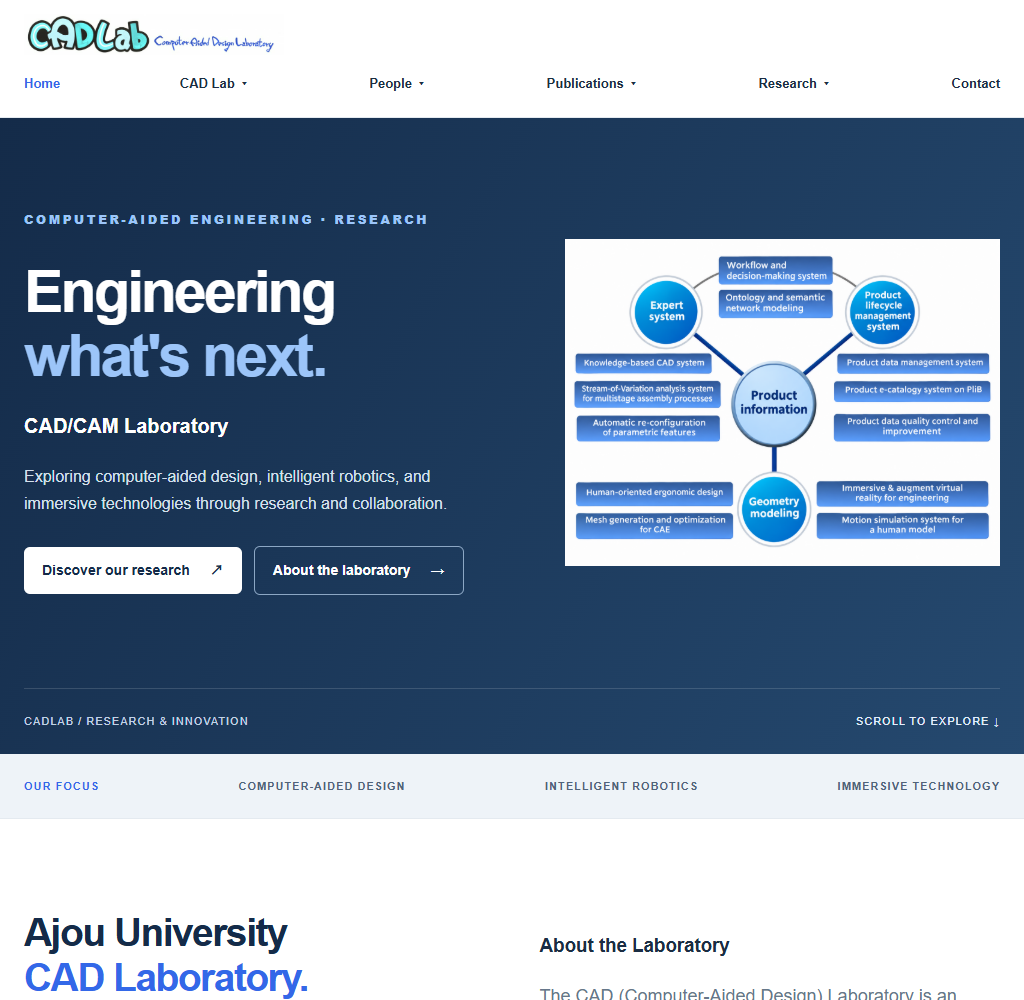
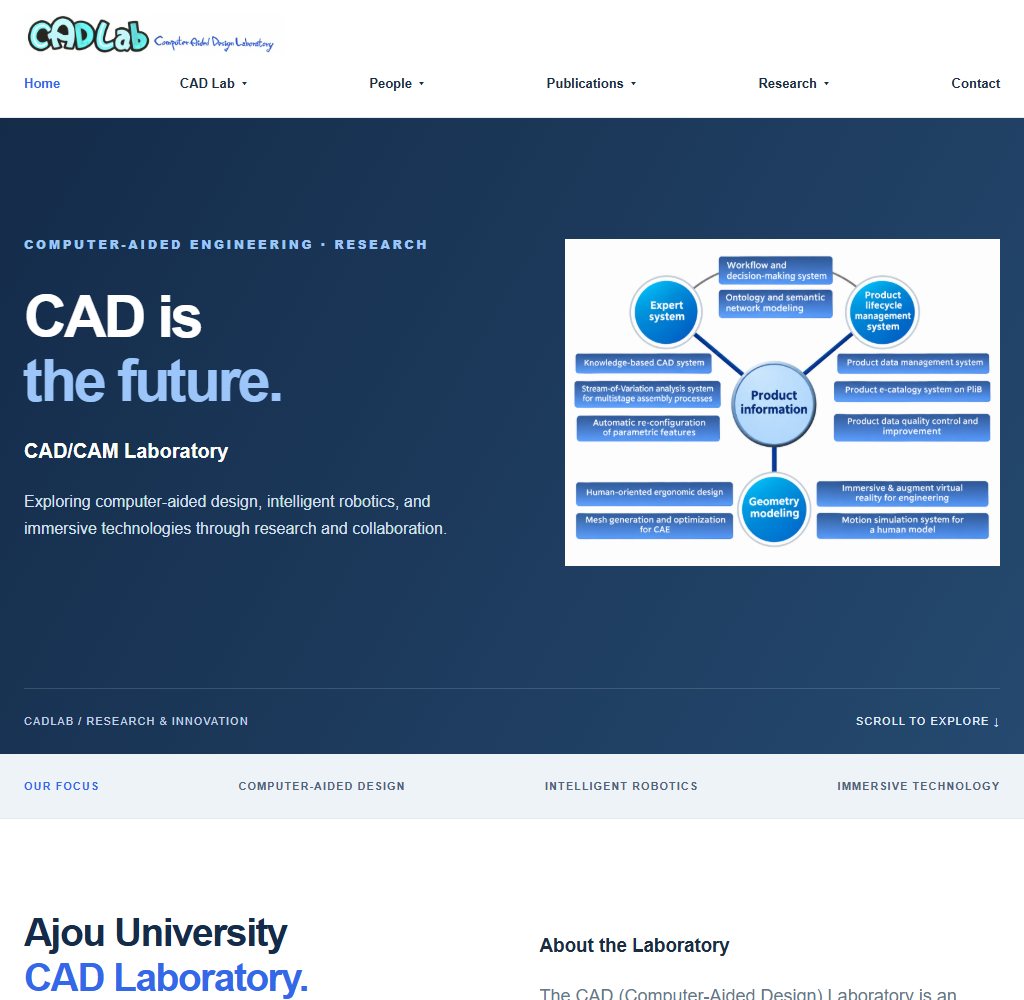
Update Hero headline and remove action buttons

Changed region(s): [[0.0, 0.217, 0.4375, 0.62]]

diff --git a/index.html b/index.html
@@ -60,8 +60,7 @@
       <div class="hero-grid" aria-hidden="true"></div>
       <div class="hero-glow" aria-hidden="true"></div>
       <div class="wrap hero-layout">
-        <div class="hero-copy"><div class="eyebrow"><span class="eyebrow-line"></span> COMPUTER-AIDED ENGINEERING · RESEARCH</div><h1>Engineering<br><em>what's next.</em></h1><p class="hero-descriptor">CAD/CAM Laboratory</p><p class="hero-summary">Exploring computer-aided design, intelligent robotics, and immersive technologies through research and collaboration.</p>
-          <div class="hero-actions"><a class="cta" href="#research">Discover our research <span aria-hidden="true">↗</span></a><a class="cta-secondary" href="#about">About the laboratory <span aria-hidden="true">→</span></a></div>
+        <div class="hero-copy"><div class="eyebrow"><span class="eyebrow-line"></span> COMPUTER-AIDED ENGINEERING · RESEARCH</div><h1>CAD is<br><em>the future.</em></h1><p class="hero-descriptor">CAD/CAM Laboratory</p><p class="hero-summary">Exploring computer-aided design, intelligent robotics, and immersive technologies through research and collaboration.</p>
         </div>
        
 

diff --git a/.github/review/hero/README.md b/.github/review/hero/README.md
@@ -2,9 +2,9 @@
 
 Uses the user's supplied 1448 × 1086 restored product information diagram without modifying its pixels. The original reference's misspelled “lifcyle” is corrected to “lifecycle” in this supplied restoration. Other diagram labels correspond to the reference; historical terminology is retained.
 
-The image fills the existing right column, keeps its natural aspect ratio, and stacks beneath the unchanged copy and buttons on mobile. No cropping or additional visible controls. Dense diagram labels become small at phone width; the full-resolution asset remains available through the browser's image controls and zoom.
+The image fills the existing right column, keeps its natural aspect ratio, and stacks beneath the copy on mobile. The headline is “CAD is the future.” and both Hero buttons are removed as requested. No cropping or additional visible controls. Dense diagram labels become small at phone width; the full-resolution asset remains available through the browser's image controls and zoom.
 
-Validation: `node tools/check-hero.cjs after` passed at 360, 390, 768, 1024 and 1440 px (image loaded, natural aspect ratio, no horizontal overflow, no page errors, unchanged Hero copy). `node tools/check-phase4-content.cjs` passed: 14 inner-page main contents and Phase 3 source data unchanged. `git diff --check` passed.
+Validation: `node tools/check-hero.cjs after` passed at 360, 390, 768, 1024 and 1440 px (image loaded, natural aspect ratio, no horizontal overflow, no page errors, requested headline, removed buttons, unchanged supporting copy). `node tools/check-phase4-content.cjs` passed: 14 inner-page main contents and Phase 3 source data unchanged. `git diff --check` passed.
 
 Screenshots: `before-WIDTH.png` and `after-WIDTH.png` for all five viewport widths. Reviewed desktop 1440 and mobile 390 screenshots visually.
 
